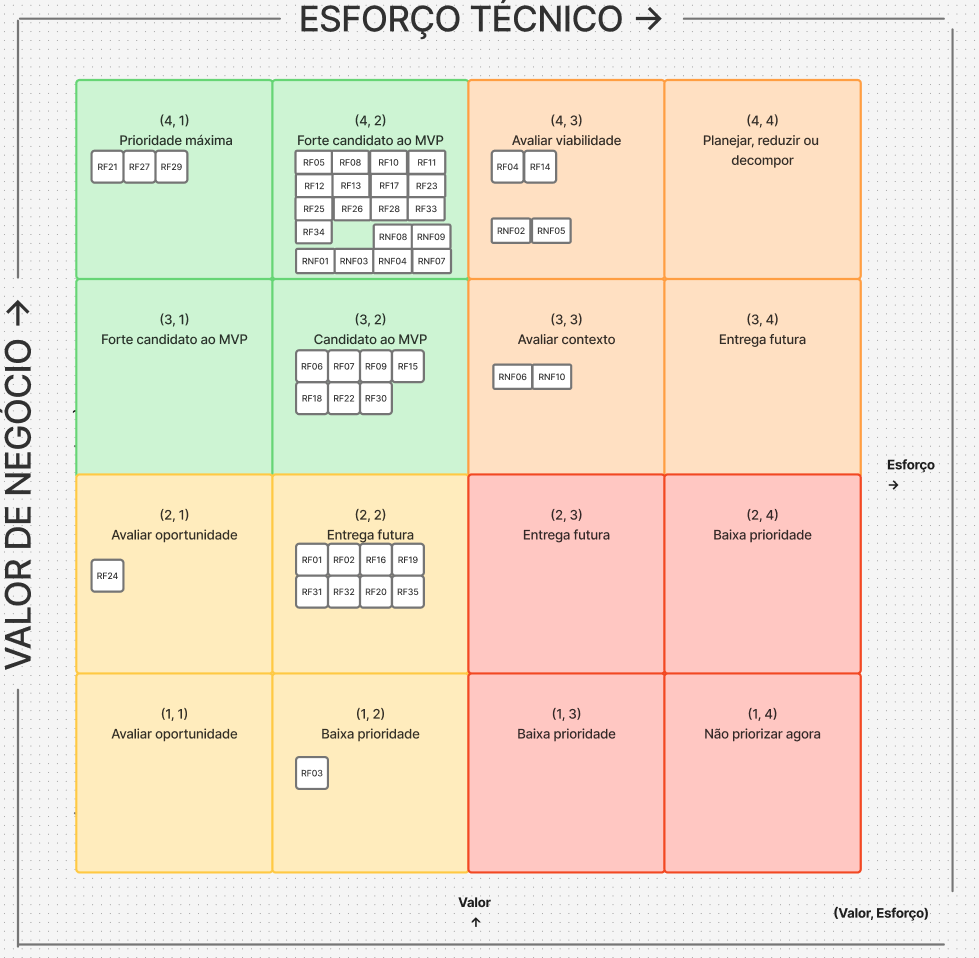
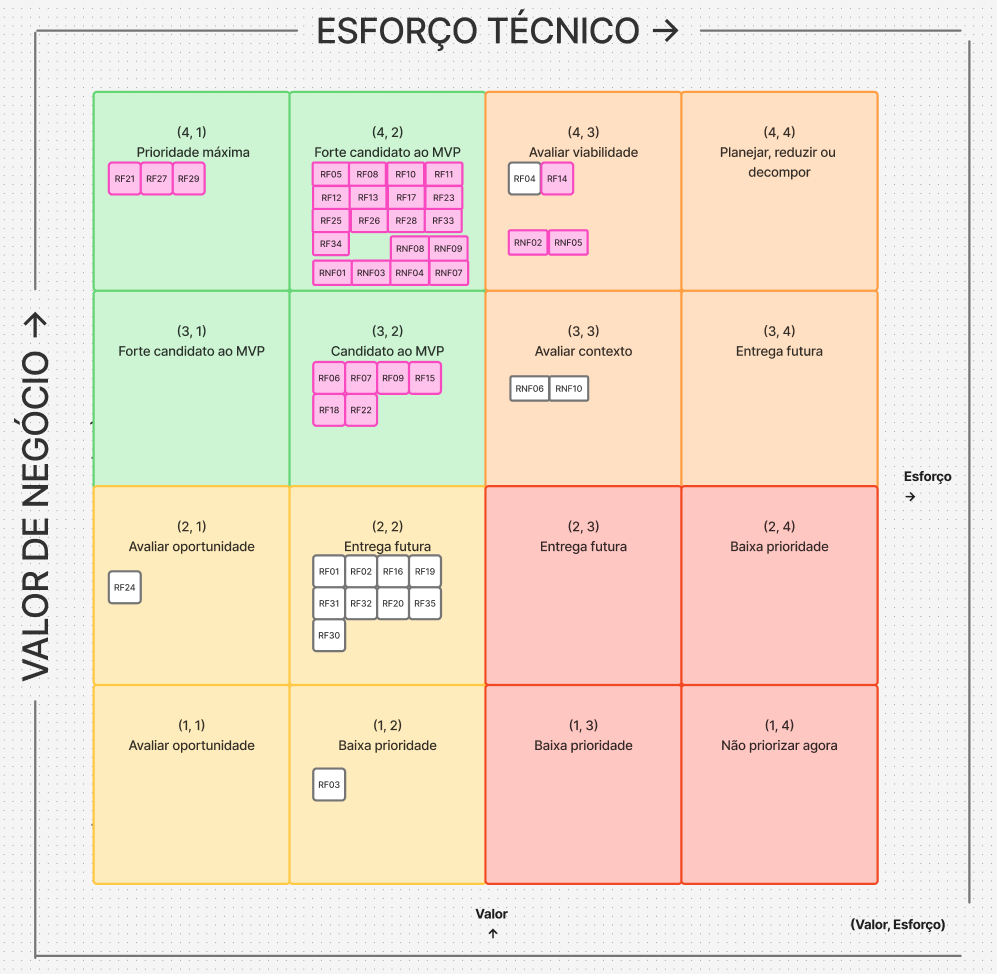
docs: adiciona tabela de classificação

Changed region(s): [[0.0, 0.0, 1.0, 1.0], [0.5209, 0.7265, 0.6435, 0.7871], [0.7354, 0.333, 0.8274, 0.3633]]

diff --git a/docs/entrega-atividades/classificacao-requisitos.md b/docs/entrega-atividades/classificacao-requisitos.md
@@ -1,0 +1,107 @@
+# Classificação de requisitos 
+
+- Apuração do valor de negócio
+
+> funcionais = 0,4 x MoSCoW + 0,6 x Frequência de uso
+
+> Não funcionais= MoSCow
+
+| ID | Nome | Descrição | Relação | Avaliação MoSCoW | Avaliação frequência de uso | Valor de Negócio |
+|---|---|---|---|---|---|---|
+| RF01 | Cadastrar projetos | Permitir que os gestores do IBRADA possam cadastrar projetos de regularização fundiária e ambiental de propriedades rurais, inclusão sócio-produtiva e assistência técnica e extensão de áreas rurais em um dashboard. | CP1 | 3 | 2 | 2,4 |
+| RF02 | Editar projetos | Permitir que os gestores possam editar informações sobre os projetos do dashboard. | CP1 | 3 | 2 | 2,4 |
+| RF03 | Remover projetos | Permitir que os gestores possam remover os projetos do dashboard. | CP1 | 3 | 1 | 1,8 |
+| RF04 | Exibir dashboard de impacto | Permitir que visitantes visualizem, em um painel de acesso público, os indicadores de impacto dos projetos. | CP1 | 4 | 4 | 4,0 |
+| RF05 | Apresentar formulário de triagem | Permitir que o visitante (possível turista, apoiador ou usuário buscando regulamentação ambiental) preencha um formulário de triagem guiado com campos simplificados para identificar o tipo de solicitação e seu perfil, armazenando os dados no sistema e o encaminhando corretamente | CP2 | 4 | 4 | 4,0 |
+| RF06 | Visualizar catálogo de ecoturismo | Permitir aos usuários visualizar o catálogo de experiências de ecoturismo, incluindo descrições, datas, disponibilidade de vagas e valores. | CP3 | 4 | 3 | 3,4 |
+| RF07 | Detalhar experiências | Permitir que o usuário visualize informações completas de uma experiência de ecoturismo selecionada e com possibilidade de compartilhamento de seu conteúdo. | CP3 | 3 | 3 | 3,0 |
+| RF08 | Cadastrar clientes | Permitir que os visitantes interessados em reservas se cadastrem em novas contas como clientes. | CP3 | 4 | 4 | 4,0 |
+| RF09 | Editar perfil de clientes | Permitir que clientes possam editar seus dados pessoais registrados em suas próprias contas. | CP3 | 4 | 3 | 3,4 |
+| RF10 | Realizar login de cliente | Permitir que clientes cadastrados acessem o sistema mediante validação de credenciais. | CP3 | 4 | 4 | 4,0 |
+| RF11 | Encerrar sessão de cliente | Permitir que clientes encerrem sua sessão ativa no sistema. | CP3 | 4 | 4 | 4,0 |
+| RF12 | Selecionar pacote de ecoturismo | Permitir que o cliente realize a reserva dos pacotes de ecoturismo selecionados. | CP3 | 4 | 4 | 4,0 |
+| RF13 | Confirmar reserva | Permitir que o cliente confirme a reserva antes do checkout. | CP3 | 4 | 4 | 4,0 |
+| RF14 | Pagar reserva | Permitir que o cliente realize pagamento de suas reservas de pacotes de ecoturismo. | CP3 | 4 | 4 | 4,0 |
+| RF15 | Cadastrar experiências de ecoturismo | Permitir a equipe do IBRADA cadastrar experiências de ecoturismo no sistema. | CP3 | 3 | 3 | 3,0 |
+| RF16 | Editar experiências de ecoturismo | Permitir a equipe do IBRADA editar experiências de ecoturismo no sistema. | CP3 | 2 | 2 | 2,0 |
+| RF17 | Alterar disponibilidade de experiência de ecoturismo | Permitir que o gestor marque uma experiência de ecoturismo como disponível ou indisponível para novas reservas. | CP3 | 4 | 4 | 4,0 |
+| RF18 | Cadastrar oportunidades de voluntariado | Permitir ao gestor cadastrar oportunidades de voluntariado, definindo habilidades requeridas, duração, disponibilidade e projeto associado. | CP4 | 4 | 3 | 3,4 |
+| RF19 | Editar oportunidades de voluntariado | Permitir ao gestor editar as informações das oportunidades de voluntariado registradas no sistema. | CP4 | 4 | 2 | 2,8 |
+| RF20 | Gerenciar papel de gestor | Permitir que um gestor cadastre outros membros da equipe do IBRADA como gestores, concedendo a eles acesso aos painéis do sistema. | CP4 | 4 | 2 | 2,8 |
+| RF21 | Listar oportunidades de voluntariado | Permitir que o voluntário consulte a lista de oportunidades de voluntariado abertas. | CP4 | 4 | 4 | 4,0 |
+| RF22 | Visualizar detalhes de oportunidade de voluntariado | Permitir que o voluntário visualize as informações detalhadas de uma oportunidade selecionada, incluindo habilidades requeridas, duração, disponibilidade e projeto associado. | CP4 | 4 | 3 | 3,4 |
+| RF23 | Cadastrar perfil do voluntário | Permitir que usuários se cadastrem como voluntários, informando suas habilidades, experiências, áreas de interesse e disponibilidade. | CP4 | 4 | 4 | 4,0 |
+| RF24 | Editar perfil do voluntário | Permitir que usuários cadastrados como voluntários possam editar suas informações do perfil. | CP4 | 4 | 2 | 2,8 |
+| RF25 | Candidatar-se a oportunidade | Permitir que o voluntário autenticado se candidate a uma oportunidade de voluntariado aberta. | CP4 | 4 | 4 | 4,0 |
+| RF26 | Realizar login de voluntário | Permitir que voluntários cadastrados acessem o sistema mediante validação de credenciais. | CP4 | 4 | 4 | 4,0 |
+| RF27 | Encerrar sessão de voluntários | Permitir que voluntários encerrem sua sessão ativa no sistema. | CP4 | 4 | 4 | 4,0 |
+| RF28 | Visualizar candidatos | Permitir que gestores visualizem todos os candidatos a uma oportunidade em funil. | CP4 | 4 | 4 | 4,0 |
+| RF29 | Registrar consentimento de uso de dados | Permitir que o usuário visualize o termo de consentimento (LGPD) no momento do cadastro e o aceite explicitamente, registrando data, hora e versão do termo aceito. | CP4 | 4 | 4 | 4,0 |
+| RF30 | Configurar preferências de notificação | Permitir que o usuário selecione, edite ou desative os alertas de projetos de seu interesse. | CP5 | 3 | 2 | 2,4 |
+| RF31 | Exibir estatísticas de alcance das notificações | Permitir que o gestor visualize estatísticas de alcance das notificações enviadas. | CP5 | 3 | 2 | 2,4 |
+| RF32 | Gerenciar envio de notificações | Permitir que o gestor gerencie notificações enviadas. | CP5 | 2 | 3 | 2,6 |
+| RF33 | Preencher solicitação de parceria | Permitir que um candidato a parceiro preencha um formulário simplificado para solicitação de parceria, coletando informações (data, tipo e área). | CP6 | 4 | 4 | 4,0 |
+| RF34 | Visualizar propostas de parceria | Apresentar um painel centralizado para a equipe do IBRADA visualizar as solicitações de parceria recebidas. | CP6 | 4 | 4 | 4,0 |
+| RF35 | Enviar resposta de solicitação | Permitir que o gestor escreva uma resposta a solicitação de parceria pelo sistema, que será enviada de forma automática por email para a empresa candidata. | CP6 | 2 | 2 | 2,0 |
+| RNF01 | Responsividade da interface | A interface deve se adaptar a smartphones, tablets e desktops sem quebra de layout ou sobreposição. | Transversal — todas as CPs | 4 |-| 4 |
+| RNF02 | Integridade transacional | O sistema deve garantir transações ACID e impedir reservas concorrentes para a mesma vaga, evitando overbooking. | CP3 | 4 |-| 4 |
+| RNF03 | Desempenho do catálogo | As listagens de projetos e experiências de ecoturismo devem carregar em até 3 segundos em conexão de 15 Mbps. | CP1 e CP3 | 4 |-| 4 |
+| RNF04 | Autenticação e autorização | O sistema deve negar acesso não autorizado e registrar tentativas de acesso às rotas de gerenciamento. | Transversal — CP1, CP3, CP4 e CP6 | 4 |-| 4 |
+| RNF05 | Integração externa | Webhooks devem processar notificações de forma assíncrona em até 3 segundos e realizar até 5 tentativas de reprocessamento. | CP3 | 4 |-| 4 |
+| RNF06 | Escalabilidade sob demanda | O sistema deve suportar 200 usuários simultâneos, com tempo de resposta de até 2 segundos para 95% das requisições e taxa de erro de até 1%. | CP1, CP3 e CP5 | 3 |-| 3 |
+| RNF07 | Disponibilidade do sistema | A plataforma deve garantir disponibilidade mínima de 98% ao mês, com manutenções programadas fora do horário de pico. | Transversal — todas as CPs | 4 |-| 4 |
+| RNF08 | Proteção de dados pessoais (LGPD) | O sistema deve proteger dados pessoais e sensíveis usando AES-256 para dados em repouso e TLS 1.2 ou superior em trânsito. | CP3, CP4 e CP6 | 4 |-| 4 |
+| RNF09 | Usabilidade do formulário de triagem | O formulário deve ser simples para usuários com baixa familiaridade digital e alcançar taxa de conclusão mínima de 90%. | CP2 | 4 |-| 4 |
+| RNF10 | Compatibilidade entre navegadores | O sistema deve manter paridade funcional e visual nas duas últimas versões estáveis do Chrome, Firefox, Safari e Edge. | Transversal — todas as CPs | 3 |-| 3 |
+
+- Esforço técnico
+
+> Esforço técnico = (Tempo de Implementação + Domínio Técnico + Complexidade) / 3
+
+| ID | Tempo de Implementação | Domínio Técnico | Complexidade | Esforço Técnico | Esforço Técnico Formatado |
+|---|---|---|---|---|---|
+| RF01 | 2,67 | 2,67 | 3,17 | 8,5 | 2,17 |
+| RF02 | 3,33 | 3 | 3,67 | 10 | 1,67 |
+| RF03 | 3,67 | 3,17 | 3,67 | 10,5 | 1,5 |
+| RF04 | 2,17 | 1,67 | 2,5 | 6,33 | 2,89 |
+| RF05 | 2,83 | 3,17 | 3,5 | 9,5 | 1,83 |
+| RF06 | 3 | 3,17 | 3,5 | 9,67 | 1,78 |
+| RF07 | 3,33 | 3,33 | 3,5 | 10,17 | 1,61 |
+| RF08 | 3 | 3,33 | 3,5 | 9,83 | 1,72 |
+| RF09 | 3,5 | 3,5 | 3,5 | 10,5 | 1,5 |
+| RF10 | 2,67 | 3,17 | 3 | 8,83 | 2,06 |
+| RF11 | 3,33 | 3,5 | 3,67 | 10,5 | 1,5 |
+| RF12 | 3 | 2,33 | 3 | 8,33 | 2,22 |
+| RF13 | 3,5 | 3 | 3,33 | 9,83 | 1,72 |
+| RF14 | 1,67 | 1,33 | 1,83 | 4,83 | 3,39 |
+| RF15 | 3,17 | 3,33 | 3,5 | 10 | 1,67 |
+| RF16 | 3,5 | 3 | 3,83 | 10,33 | 1,56 |
+| RF17 | 3,33 | 3,17 | 3,67 | 10,17 | 1,61 |
+| RF18 | 2,5 | 3 | 3,33 | 8,83 | 2,06 |
+| RF19 | 3,17 | 3,33 | 3,67 | 10,17 | 1,61 |
+| RF20 | 2,83 | 2,33 | 3,17 | 8,33 | 2,22 |
+| RF21 | 3,5 | 3,33 | 3,83 | 10,67 | 1,44 |
+| RF22 | 3,5 | 3,33 | 3,67 | 10,5 | 1,5 |
+| RF23 | 2,83 | 3 | 3,5 | 9,33 | 1,89 |
+| RF24 | 3,67 | 3,5 | 3,67 | 10,83 | 1,39 |
+| RF25 | 3 | 3,17 | 3,67 | 9,83 | 1,72 |
+| RF26 | 2,67 | 3,17 | 3,17 | 9 | 2 |
+| RF27 | 3,5 | 3,5 | 3,83 | 10,83 | 1,39 |
+| RF28 | 3 | 3 | 3,17 | 9,17 | 1,94 |
+| RF29 | 3,67 | 3,33 | 3,67 | 10,67 | 1,44 |
+| RF30 | 3,17 | 2,33 | 3,17 | 8,67 | 2,11 |
+| RF31 | 3 | 2 | 3 | 8 | 2,33 |
+| RF32 | 3 | 2,5 | 3,67 | 9,17 | 1,94 |
+| RF33 | 3,33 | 3,33 | 3,67 | 10,33 | 1,56 |
+| RF34 | 3,33 | 3,17 | 3,67 | 10,17 | 1,61 |
+| RF35 | 3,33 | 3 | 3,33 | 9,67 | 1,78 |
+| RNF01 | 2 | 2 | 1,83 | 5,83 | 3,06 |
+| RNF02 | 2,83 | 3 | 2,67 | 8,5 | 2,17 |
+| RNF03 | 1,5 | 2 | 1,33 | 4,83 | 3,39 |
+| RNF04 | 1,83 | 1,67 | 1,67 | 5,17 | 3,28 |
+| RNF05 | 2,17 | 2,67 | 2 | 6,83 | 2,72 |
+| RNF06 | 2,5 | 2,5 | 2,17 | 7,17 | 2,61 |
+| RNF07 | 1,83 | 1,83 | 1,83 | 5,5 | 3,17 |
+| RNF08 | 2,33 | 2,17 | 2,17 | 6,67 | 2,78 |
+| RNF09 | 1,5 | 1,5 | 1,33 | 4,33 | 3,56 |
+| RNF10 | 1,83 | 2 | 1,83 | 5,67 | 3,11 |

diff --git a/docs/documento-visao/10_backlog.md b/docs/documento-visao/10_backlog.md
@@ -68,7 +68,7 @@ Cada critério foi avaliado em uma escala de **1 a 4**, orientada de modo que va
     | **3** | A equipe precisa desenvolver conhecimentos relevantes |
     | **4** | A equipe ainda não possui os conhecimentos ou recursos necessários |
 
-[Tabelas com todos os valores detalhados antes de calcular as médias]() TODO
+[Tabelas com todos os valores detalhados antes de calcular as médias](../entrega-atividades/classificacao-requisitos.md) TODO
 
 ### 10.2.2 Tabela de critérios
 
@@ -105,7 +105,7 @@ Após todos os calculos, a tabela final ficou assim:
 | **RF27** | Encerrar sessão de voluntários | Permitir que voluntários encerrem sua sessão ativa no sistema. | CP4 | 4 | 4 | 1,39 |
 | **RF28** | Visualizar candidatos | Permitir que gestores visualizem todos os candidatos a uma oportunidade em funil. | CP4 | 4 | 4 | 1,94 |
 | **RF29** | Registrar consentimento de uso de dados | Permitir que o usuário visualize o termo de consentimento (LGPD) no momento do cadastro e o aceite explicitamente, registrando data, hora e versão do termo aceito. | CP4 | 4 | 4 | 1,44 |
-| **RF30** | Configurar preferências de notificação | Permitir que o usuário selecione, edite ou desative os alertas de projetos de seu interesse. | CP5 | 4 | 3 | 2,11 |
+| RF30 | Configurar preferências de notificação | Permitir que o usuário selecione, edite ou desative os alertas de projetos de seu interesse. | CP5 | 4 | 3 | 2,11 |
 | RF31 | Exibir estatísticas de alcance das notificações | Permitir que o gestor visualize estatísticas de alcance das notificações enviadas. | CP5 | 3 | 2 | 2,33 |
 | RF32 | Gerenciar envio de notificações | Permitir que o gestor gerencie notificações enviadas. | CP5 | 2 | 3 | 1,94 |
 | **RF33** | Preencher solicitação de parceria | Permitir que um candidato a parceiro preencha um formulário simplificado para solicitação de parceria, coletando informações (data, tipo e área). | CP6 | 4 | 4 | 1,56 |
@@ -135,8 +135,8 @@ O eixo vertical representa o **valor de negócio**, avaliado junto ao cliente, e
 | **Valor de negócio ↓ / Esforço técnico →** | **1 — Baixo** | **2 — Moderado** | **3 — Alto** | **4 — Muito alto** |
 | --- | --- | --- | --- | --- |
 | **4 — Muito alto** | **RF21, RF27, RF29** | **RF05, RF08, RF10, RF11, RF12, RF13, RF17, RF23, RF25, RF26, RF28, RF33, RF34, RNF01, RNF03, RNF04, RNF07, RNF08, RNF09** | RF04, **RF14** **, RNF02, RNF05** | — |
-| **3 — Alto** |  — | **RF06, RF07, RF09, RF15, RF18, RF22, RF30** | RNF06, RNF10 | — |
-| **2 — Moderado** | RF24 | RF02, RF16, RF19, RF20, RF31, RF32, RF35, RF01 |  — | — |
+| **3 — Alto** |  — | **RF06, RF07, RF09, RF15, RF18, RF22** | RNF06, RNF10 | — |
+| **2 — Moderado** | RF24 | RF30, RF02, RF16, RF19, RF20, RF31, RF32, RF35, RF01 |  — | — |
 | **1 — Baixo** | — | RF03 | — | — |
 
 *Matriz 4x4, em negrito são os que entrarão no MVP*
@@ -144,9 +144,9 @@ O eixo vertical representa o **valor de negócio**, avaliado junto ao cliente, e
 
 <!-- <iframe style="border: 1px solid rgba(0, 0, 0, 0.1);" width="800" height="450" src="https://embed.figma.com/board/Onc9sxunGlXpjNQXJqnAMF/Matriz-de-prioridade?node-id=0-1&embed-host=share" allowfullscreen></iframe> -->
 
-<!-- > Em rosa são os que posteriormente entraram no MVP do produto. -->
+> Em rosa são os que posteriormente entraram no MVP do produto.
 
-> imagem abaixo para controle de versão (última atualização 11/10/2026)
+> A imagem abaixo serve para controle de versão (última atualização 12/10/2026)
 ![matriz](../assets/matriz4x4.png)
 [LINK](https://www.figma.com/board/Onc9sxunGlXpjNQXJqnAMF/Matriz-de-prioridade?node-id=0-1&t=Dq32iZJOkZ0Vwe6r-1)
 

diff --git a/docs/entrega-atividades/atividade4.md b/docs/entrega-atividades/atividade4.md
@@ -1,4 +1,4 @@
-# Atividade 4 - Priorização dos requisitos e definição do MVP
+# Atividade 4 - Priorização dos requisitos e definição do MVP (28/09/2026 - algumas informações dessa atividade mudaram, mas permanecem aqui pelo controle de versões)
 
 ## 1. Avaliação do valor de negócio
 
